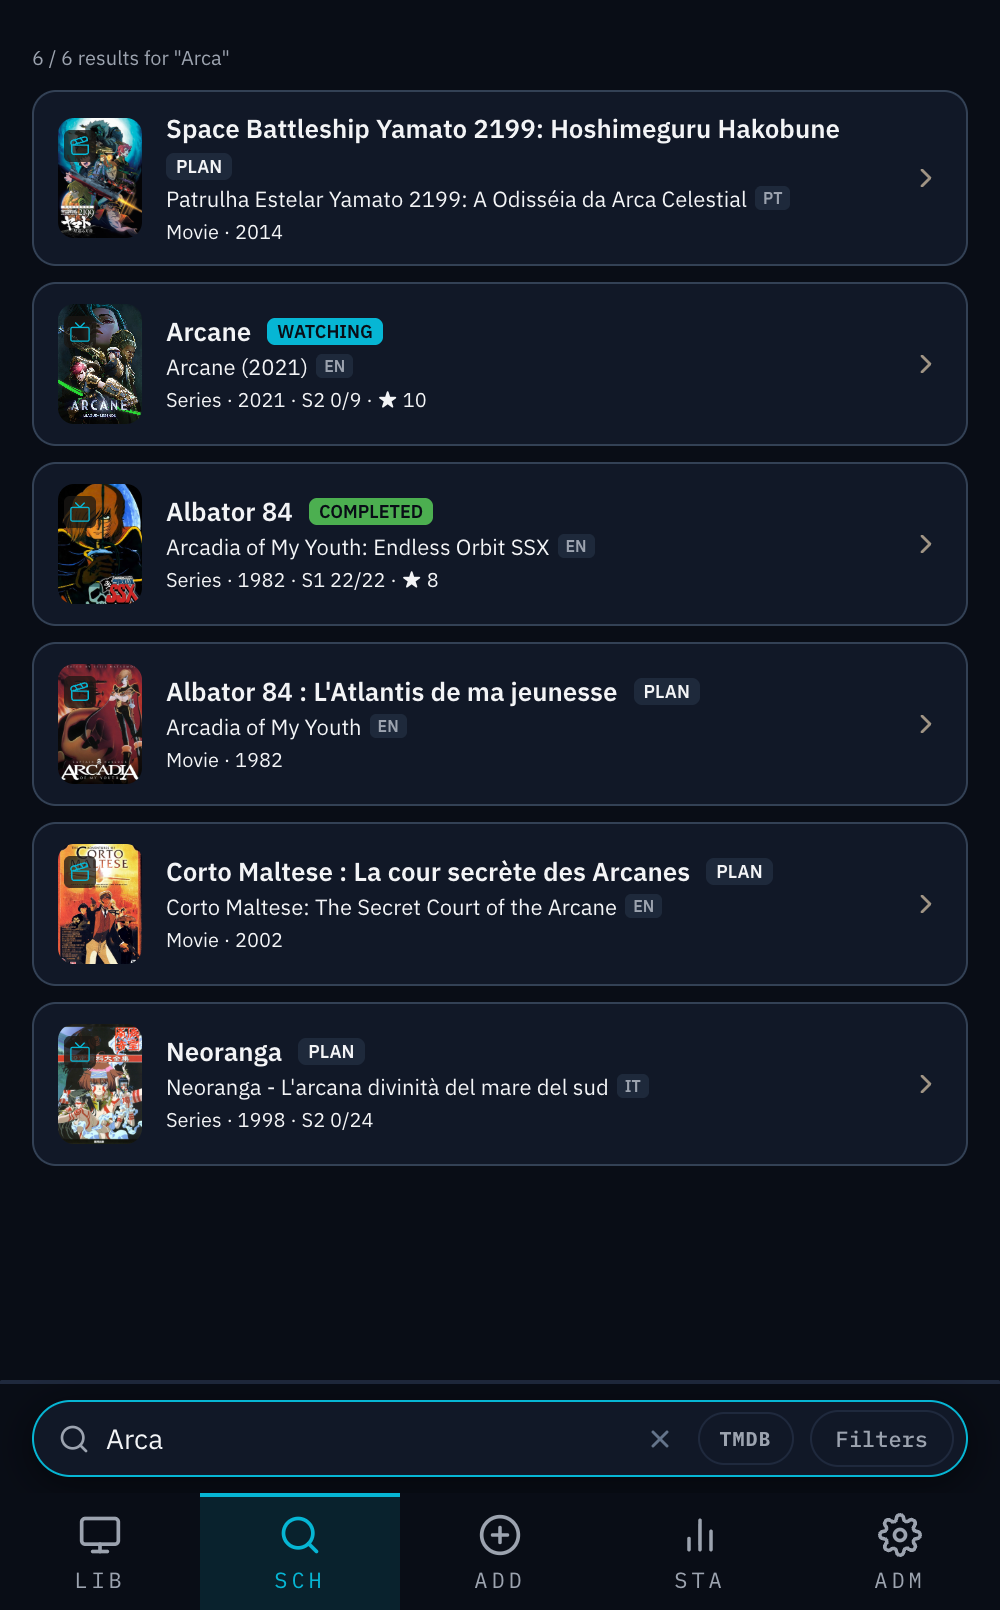
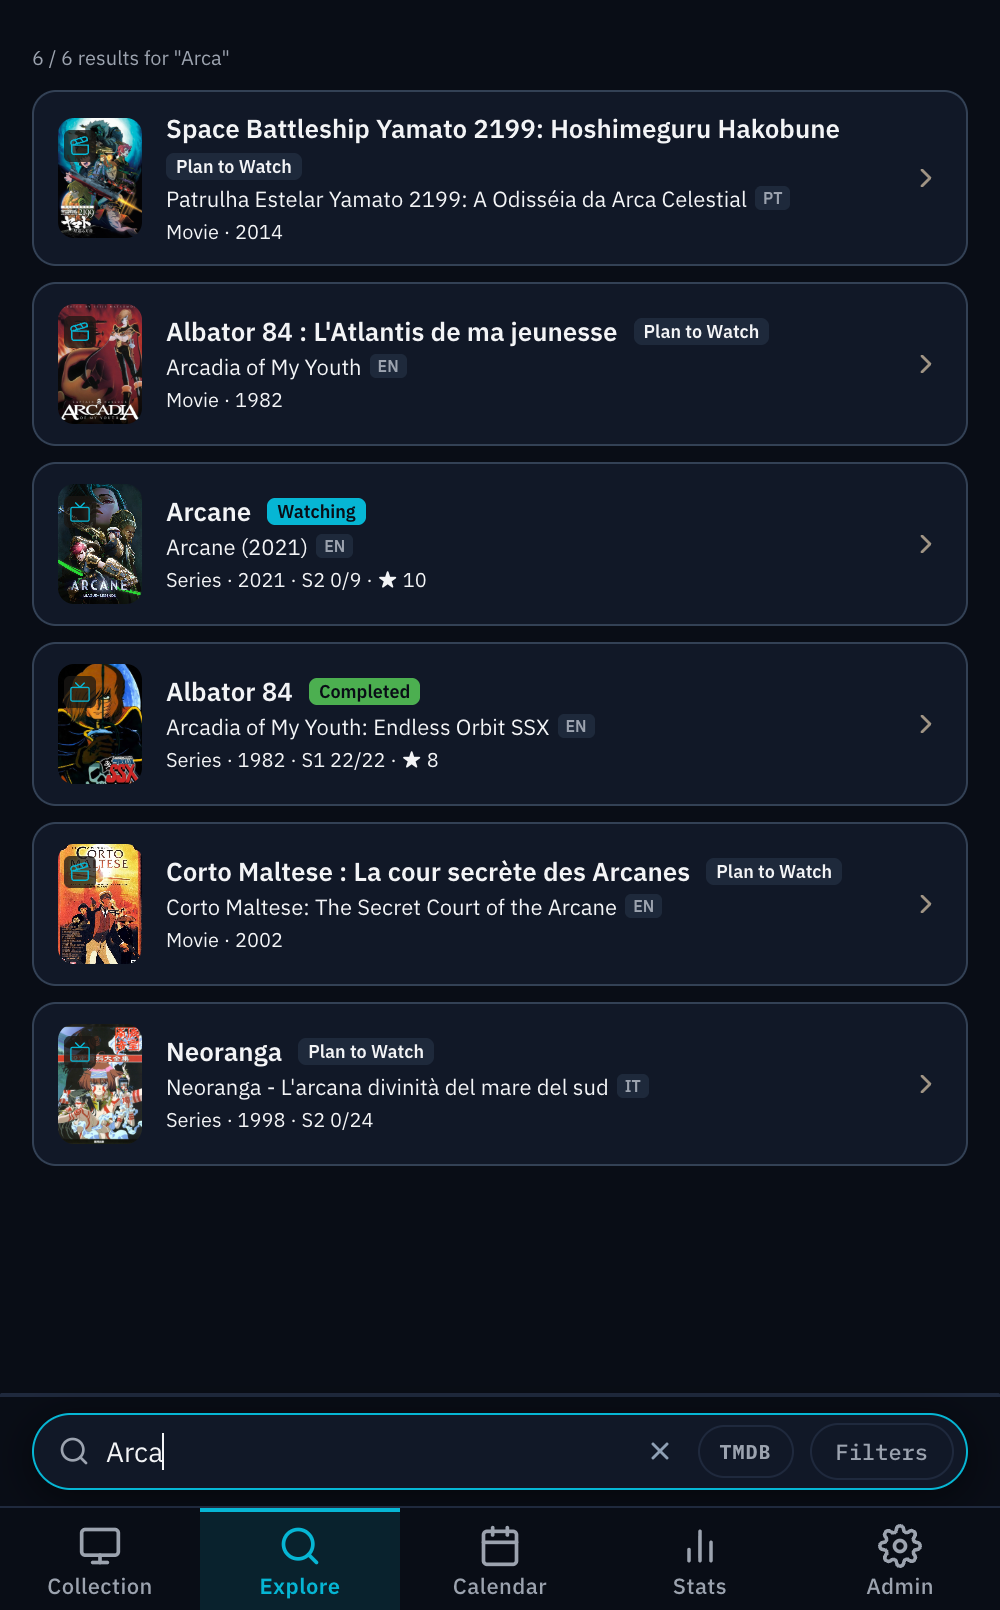
docs(screenshots): regenerate UI showcase screenshots and sync user guide with desktop revamp
- Regenerate all 7 reference mobile screenshots (1000x1610 PNG) directly from live app to truthfully reflect 5-tab navigation, unified search discovery, humanized badges, and editorial headers
- Add desktop showcase screenshot (2560x1600 PNG) displaying responsive fluid grid and collapsible sidebar
- Update user guide, master index, and README to document desktop lateral navigation, fluid poster grid, power shortcuts, and unified Explorer discovery
- Fix TOC anchors, localStorage key notation, and language consistency across documentation

Co-Built-By: Antigravity (a picture is worth a thousand words, especially when the picture matches the actual app)

diff --git a/docs/user-guide.md b/docs/user-guide.md
@@ -11,7 +11,7 @@ Welcome to the **Trackarr User Guide**. This document explains how to navigate, 
    - [1.1. Multi-View Calendar & iCal Export (`/coming-up`)](#11-multi-view-calendar--ical-export-coming-up)
    - [1.2. Stats Insights & Annual Retrospective (`/stats` & `/wrapped`)](#12-stats-insights--annual-retrospective-stats--wrapped)
 2. [Managing Titles & Episodes](#2-managing-titles--episodes)
-3. [Search, URL Paste & Android Sharing](#3-search-url-paste--android-sharing)
+3. [Search, Live Discovery & Mobile Sharing](#3-search-live-discovery--mobile-sharing)
 4. [Match Review & Rematching](#4-match-review--rematching)
 5. [Season Audit & Title Merges](#5-season-audit--title-merges)
 6. [Arr Stack (Radarr, Sonarr, Prowlarr)](#6-arr-stack-radarr-sonarr-prowlarr)
@@ -37,6 +37,23 @@ The **Library** screen is your media command center:
 - **Completed**: Finished movies, or series where every episode has been watched and the series has ended or was cancelled.
 - **Dropped**: Abandoned titles (quick mark `+1` and Arr availability badges are automatically suppressed on dropped titles).
 
+### Navigation & Responsive Layouts:
+- **Mobile Bottom Navigation**: 5 explicit, translated tabs with universal SVG icons and 48px touch targets:
+  - **Collection** (`/`): Your personal media library with poster grid and watching progress lists.
+  - **Explore** (`/search`): Unified search across your collection and external TMDB/AniList discovery.
+  - **Calendar** (`/coming-up`): Multi-view release calendar and iCal export feed.
+  - **Stats** (`/stats`): In-depth viewing analytics, top cast, and annual Wrapped retrospectives.
+  - **Admin** (`/admin`): System settings, task queue, integrations, and metadata maintenance.
+- **Desktop Navigation Sidebar (≥ 1024px)**: On wider screens, the mobile bottom bar is automatically hidden and replaced by a lateral desktop `<aside>` sidebar:
+  - **Header & Branding**: Full Trackarr brand logo and subtitle in expanded mode; compact mini-logo (`Ta`) in collapsed mode.
+  - **Vertical Navigation Tabs**: Direct links with active state indicator bars and hover tooltips.
+  - **Collapsible Footer**: Toggle between full expanded width (240px) and compact icon-only width (68px). State is saved in `localStorage` (`trackarr_sidebar_collapsed`).
+- **Responsive Fluid Poster Grid**: Rather than rigid fixed columns, the library uses an adaptive `repeat(auto-fill, minmax(105px..160px, 1fr))` grid:
+  - **Mobile (Phone)**: 2–3 columns (e.g. 3 columns on Google Pixel 9 Pro and standard smartphones).
+  - **Tablet (≥ 640px)**: 4–5 columns.
+  - **Desktop (≥ 1024px)**: 6–7 columns.
+  - **Widescreen (≥ 1440px)**: 8+ columns.
+
 ### Unified Bottom Search & Compact Filter Drawer:
 - **Docked Search Bar**: Docked cleanly at the bottom of the screen with an integrated text clear button (`✕`) and filter launcher badge (`[ N ]`).
 - **Single-Line Closed Filter Handle**: A 42px row docked above the navigation bar featuring `[ FILTERS (N) ⌃ ]` trigger and horizontally scrolling dismissible chips (`✕`) to remove active filter criteria directly without opening the drawer.
@@ -54,9 +71,14 @@ The **Library** screen is your media command center:
 - **Sorting Options**: 6 sort criteria (Last updated, Title, Release date, Rating, Date added, Last watched). Tap to activate; tap again to invert ascending/descending.
 
 ### Gestures & Shortcuts:
+- **Power User Keyboard Shortcuts**:
+  - `Cmd+K` (Mac) or `Ctrl+K` (Windows/Linux): Instantly trigger universal search from anywhere.
+  - `/`: Quick search trigger (when focus is not inside an active editable field).
+  - `Escape`: Dismiss open drawers (Filters, Actions) or exit multi-selection mode.
+  - `Shift+Click`: Contiguous range multi-selection across library cards.
 - **Universal Undo Toast (`UndoSnackbar`)**: Any state-changing progression (`+1` quick mark, episode/movie watch mark, title deletion) triggers a floating snackbar with a 5-second perimeter radial countdown and haptic feedback (`[15, 30, 15]`), allowing 1-tap instant rollback.
-- **One-Tap Quick Progress**: In the *Watching* list view or poster cards, tap the circular glassmorphic `+1` episode button to immediately mark the next episode as watched without opening the title.
-- **Multi-Selection Mode**: Long-press (~500ms) on any card to enter multi-selection mode with haptic feedback. Tap additional cards to select them, then use the bottom action bar for bulk status changes or deletion.
+- **One-Tap Quick Progress**: In the *Watching* list view or poster cards, tap the circular glassmorphic `+1` episode button (with generous 44×44px touch target) to immediately mark the next episode as watched without opening the title.
+- **Multi-Selection Mode**: Long-press (~500ms) on any card to enter multi-selection mode with haptic feedback. Tap additional cards or `Shift+Click` a range to select them, then use the bottom action bar for bulk status changes or deletion.
 - **Swipe Actions (Match Review)**: Swipe a card left to quickly confirm or fix matches. A full left swipe triggers immediate confirmation.
 - **Pull to Refresh**: Pull down at the top of the Library to refresh data and re-evaluate air dates.
 - **Android App Shortcuts**: Long-press the Trackarr home screen icon for instant shortcuts to **Add Title** (`/add`), **Library** (`/`), and **Search** (`/search`).
@@ -84,6 +106,10 @@ The **Calendar** page (`/coming-up`) provides a complete schedule of upcoming ep
 ## 1.2. Stats Insights & Annual Retrospective (`/stats` & `/wrapped`)
 
 The **Stats** section offers rich analytics and automated annual retrospectives:
+
+<div align="center">
+  <img src="screenshots/06-stats.png" alt="Stats & Analytics Dashboard" width="300" />
+</div>
 
 ### Global Analytics & Filterable Insights (`/stats`)
 - **Natural Watch Time Decomposition**: Total watch time is decomposed into human-readable units (*e.g. 3 yrs 87 d 16 h / 3 ans 87 j 16 h*) in a dedicated hero card with precise episode and hour subtitles.
@@ -138,16 +164,22 @@ Opening a title displays its rich details:
 
 ---
 
-## 3. Search, Live Add & Mobile Sharing
+## 3. Search, Live Discovery & Mobile Sharing
 
 Adding media to Trackarr is fast and versatile:
-1. **Live Discovery & 1-Tap Add (`/add`)**:
-   - Start typing in the search bar on `/add` to query TMDB and AniList concurrently with debounced live search.
-   - **Local Library Detection**: If a title already exists in your library, it displays an *« In Library ↗ »* badge that links directly to its detail page.
-   - **1-Tap Quick Tracking**: Direct `[+ Plan to Watch]` and `[+ Watching]` buttons add the title fully enriched with external metadata immediately, accompanied by a 5-second universal undo toast notification.
-2. **Search by Name (`/search`)**: Search across your local library with full-text search (FTS5) or toggle TMDB discovery.
-3. **Direct URL Paste**: Paste an IMDb (`https://imdb.com/title/tt...`), TMDB (`https://themoviedb.org/movie/...`), TVDB (`https://thetvdb.com/series/...`), or AniList (`https://anilist.co/anime/...`) link into the search bar to import the exact entry via the validation flow.
-4. **Native Mobile Share**: Trackarr registers as a Web Share Target on Android and iOS. Share a title link directly from your browser or streaming app into Trackarr.
+
+<div align="center">
+  <img src="screenshots/04-search.png" alt="Instant Live Search & Discovery" width="300" />
+</div>
+
+1. **Unified Search & Live Discovery (`/search` — "Explore" Tab)**:
+   - The **Explore** tab combines personal collection search and external database discovery into a single interface.
+   - **Local Library Prioritization**: Search queries first search your local collection using full-text search (FTS5).
+   - **1-Click External Discovery**: Concurrently queries TMDB and AniList. If a title is absent from your library, you can add it directly to *Plan to Watch* (`+ À voir`) or *Watching* (`+ En cours`) with a single tap, accompanied by a 5-second universal undo toast notification.
+   - **Local Library Detection**: External results that already exist in your collection display an *« In Library ↗ »* badge linking directly to their detail page.
+2. **Direct URL & Identifier Paste**: Paste an IMDb (`https://imdb.com/title/tt...`), TMDB (`https://themoviedb.org/movie/...`), TVDB (`https://thetvdb.com/series/...`), or AniList (`https://anilist.co/anime/...`) link into the search bar to import the exact entry via the validation flow.
+3. **Native Mobile Share**: Trackarr registers as a Web Share Target on Android and iOS. Share a title link directly from your browser or streaming app into Trackarr.
+4. **Desktop Hotkeys**: Press `Cmd+K` / `Ctrl+K` or `/` from any page to focus search immediately.
 
 > [!TIP]
 > **Fast-Track Mobile Addition Workflow**:

diff --git a/README.md b/README.md
@@ -52,6 +52,10 @@
       </td>
     </tr>
   </table>
+  <br />
+  <img src="docs/screenshots/08-desktop-library.png" alt="Desktop Fluid Grid & Lateral Navigation" width="100%" />
+  <br />
+  <sub><b>Desktop Fluid Grid & Collapsible Sidebar (≥ 1024px)</b></sub>
 </div>
 
 ---
@@ -60,6 +64,7 @@
 
 - 🚀 **Ultra-Lightweight Go Backend**: Single binary with embedded SQLite WAL and embedded web assets. Idles at **under 30 MB of RAM**, perfectly suited for low-power Synology NAS, Unraid, TrueNAS, Raspberry Pi, and VPS.
 - 📱 **PWA Mobile-First for Android**: Tailored specifically for Android devices (Chrome / Android PWA engine) with native share sheet integration (`Share to Trackarr`), haptic feedback, swipe gestures, universal undo countdowns, and instant pull-to-refresh.
+- 🖥 **Adaptive Desktop & Power Shortcuts**: Responsive fluid poster grid (2–3 columns on phone, 6–8+ columns on widescreen), collapsible lateral sidebar (240px ↔ 68px), and fast keyboard shortcuts (`Cmd+K` / `Ctrl+K` & `/` search, `Escape`, `Shift+Click` range select).
 - 🎬 **Universal Scrobbling**: Real-time webhook scrobbling from **Jellyfin** and **Plex** with automatic watch time, progress tracking, and catch-up badges.
 - 📆 **Multi-View Calendar & iCal Subscription**: Monthly grid, weekly timeline, and chronological lists with token-secured RFC 5545 calendar feed for Apple Calendar and Google Calendar.
 - 🌸 **AniList 2-Way Sync & Multi-Part Anime**: Seamlessly handles anime seasons split across multiple AniList entries (e.g. Cour 1 / Cour 2) with automated bidirectional rating, progress, and status synchronization.

diff --git a/docs/INDEX.md b/docs/INDEX.md
@@ -13,13 +13,13 @@ Welcome to the official **Trackarr** documentation suite. Explore the dedicated 
 - Calendar, Wrapped, Franchise tracking, and streaming provider highlights.
 
 ### 2. [User Guide & Troubleshooting](user-guide.md)
-- Complete UI walkthrough: Library statuses (*Watching*, *Caught up*, *Completed*, *Plan*, *Dropped*).
+- Complete UI walkthrough: Library statuses (*Watching*, *Caught up*, *Completed*, *Plan*, *Dropped*), responsive fluid grid, and collapsible desktop sidebar.
 - Multi-View Calendar (Month, Week, List) and RFC 5545 iCal subscription feed (`/coming-up`).
 - Filterable Stats insights, decomposed watch time, Year/Media filters, Top Cast & interactive filmography drawer (`/stats`).
 - Trackarr Wrapped annual retrospective story player and immutable archives gallery (`/wrapped`).
 - Unified Franchise & History Hub Bar with slide-up bottom sheets, Next Episode Hero, and Binge Estimator.
 - Single-line closed filter handle, scrolling dismissible chips, and compact filter drawer with selects.
-- Gestures & shortcuts: Universal Undo snackbar, circular `+1` quick mark, multi-select mode, swipe actions, pull-to-refresh.
+- Gestures & shortcuts: Power user shortcuts (`Cmd+K`, `/`, `Escape`, `Shift+Click`), Universal Undo snackbar, circular `+1` quick mark, multi-select mode, swipe actions, pull-to-refresh.
 - Match Review, Rematching, and Season Audit.
 - Comprehensive Q&A and troubleshooting based on real-world edge cases.
 

diff --git a/CHANGELOG.md b/CHANGELOG.md
@@ -30,6 +30,9 @@ Le format est basé sur [Keep a Changelog](https://keepachangelog.com/fr/1.1.0/)
   - État vide accueillant avec bouton direct de réinitialisation des filtres lorsqu'aucun média ne correspond aux critères appliqués.
 
 ### Modifié
+- **Synchronisation intégrale des captures d'écran et de la documentation utilisateur** :
+  - Régénération complète des 7 captures d'écran de référence (`docs/screenshots/01-library.png` à `07-admin.png`) en haute définition mobile (1000×1610) ainsi que la capture d'écran bureau (`08-desktop-library.png`), reflétant fidèlement la navigation à 5 onglets, la recherche unifiée, les badges d'état humanisés et le rayonnage adaptatif.
+  - Mise à jour du guide utilisateur (`docs/user-guide.md`), de la vitrine (`README.md`) et de l'index maître (`docs/INDEX.md`) pour documenter la barre latérale bureau, les raccourcis clavier universels et la recherche unifiée.
 - **Humanisation du wording & Dé-geekification** :
   - Élimination des en-têtes préfixés par des commentaires de code (`// IN PROGRESS`, `// COMING UP`, `// RELEASES`, `// ` dans `Stats`) au profit d'une titraille éditoriale élégante et localisée.
   - Remplacement des libellés de badges bruts en majuscules (`PLAN`, etc.) par des badges d'état traduits et humanisés (« À voir » / « Watchlist », « En cours », « À jour », « Terminé », « Abandonné »).

diff --git a/docs/patterns.md b/docs/patterns.md
@@ -213,7 +213,7 @@
 
 | Component | File | Purpose |
 |---|---|---|
-| `Navbar` | `components/Navbar.tsx` | 5-tab bottom navigation bar (`Collection`, `Explorer`, `Calendrier`, `Stats`, `Admin`) with localized labels, safe-area hit targets, and accessible ARIA attributes |
+| `Navbar` | `components/Navbar.tsx` | 5-tab bottom navigation bar (`Collection`, `Explore`, `Calendar`, `Stats`, `Admin`) with localized labels, safe-area hit targets, and accessible ARIA attributes |
 | `Sidebar` | `components/Sidebar.tsx` | Desktop collapsible lateral navigation sidebar (≥ 1024px) with Trackarr branding, vertical navigation tabs, active state indicators, and collapse/expand toggle |
 | `ActionDrawer` | `components/ActionDrawer.tsx` | Slide-up drawer exposing management actions for titles and seasons with GPU-accelerated translateY transitions, 38px docked handle, and overscroll containment |
 | `SectionCards` | `components/SectionCards.tsx` | 3-column hub cards header on Library page with poster slices backdrop and editorial titles |
